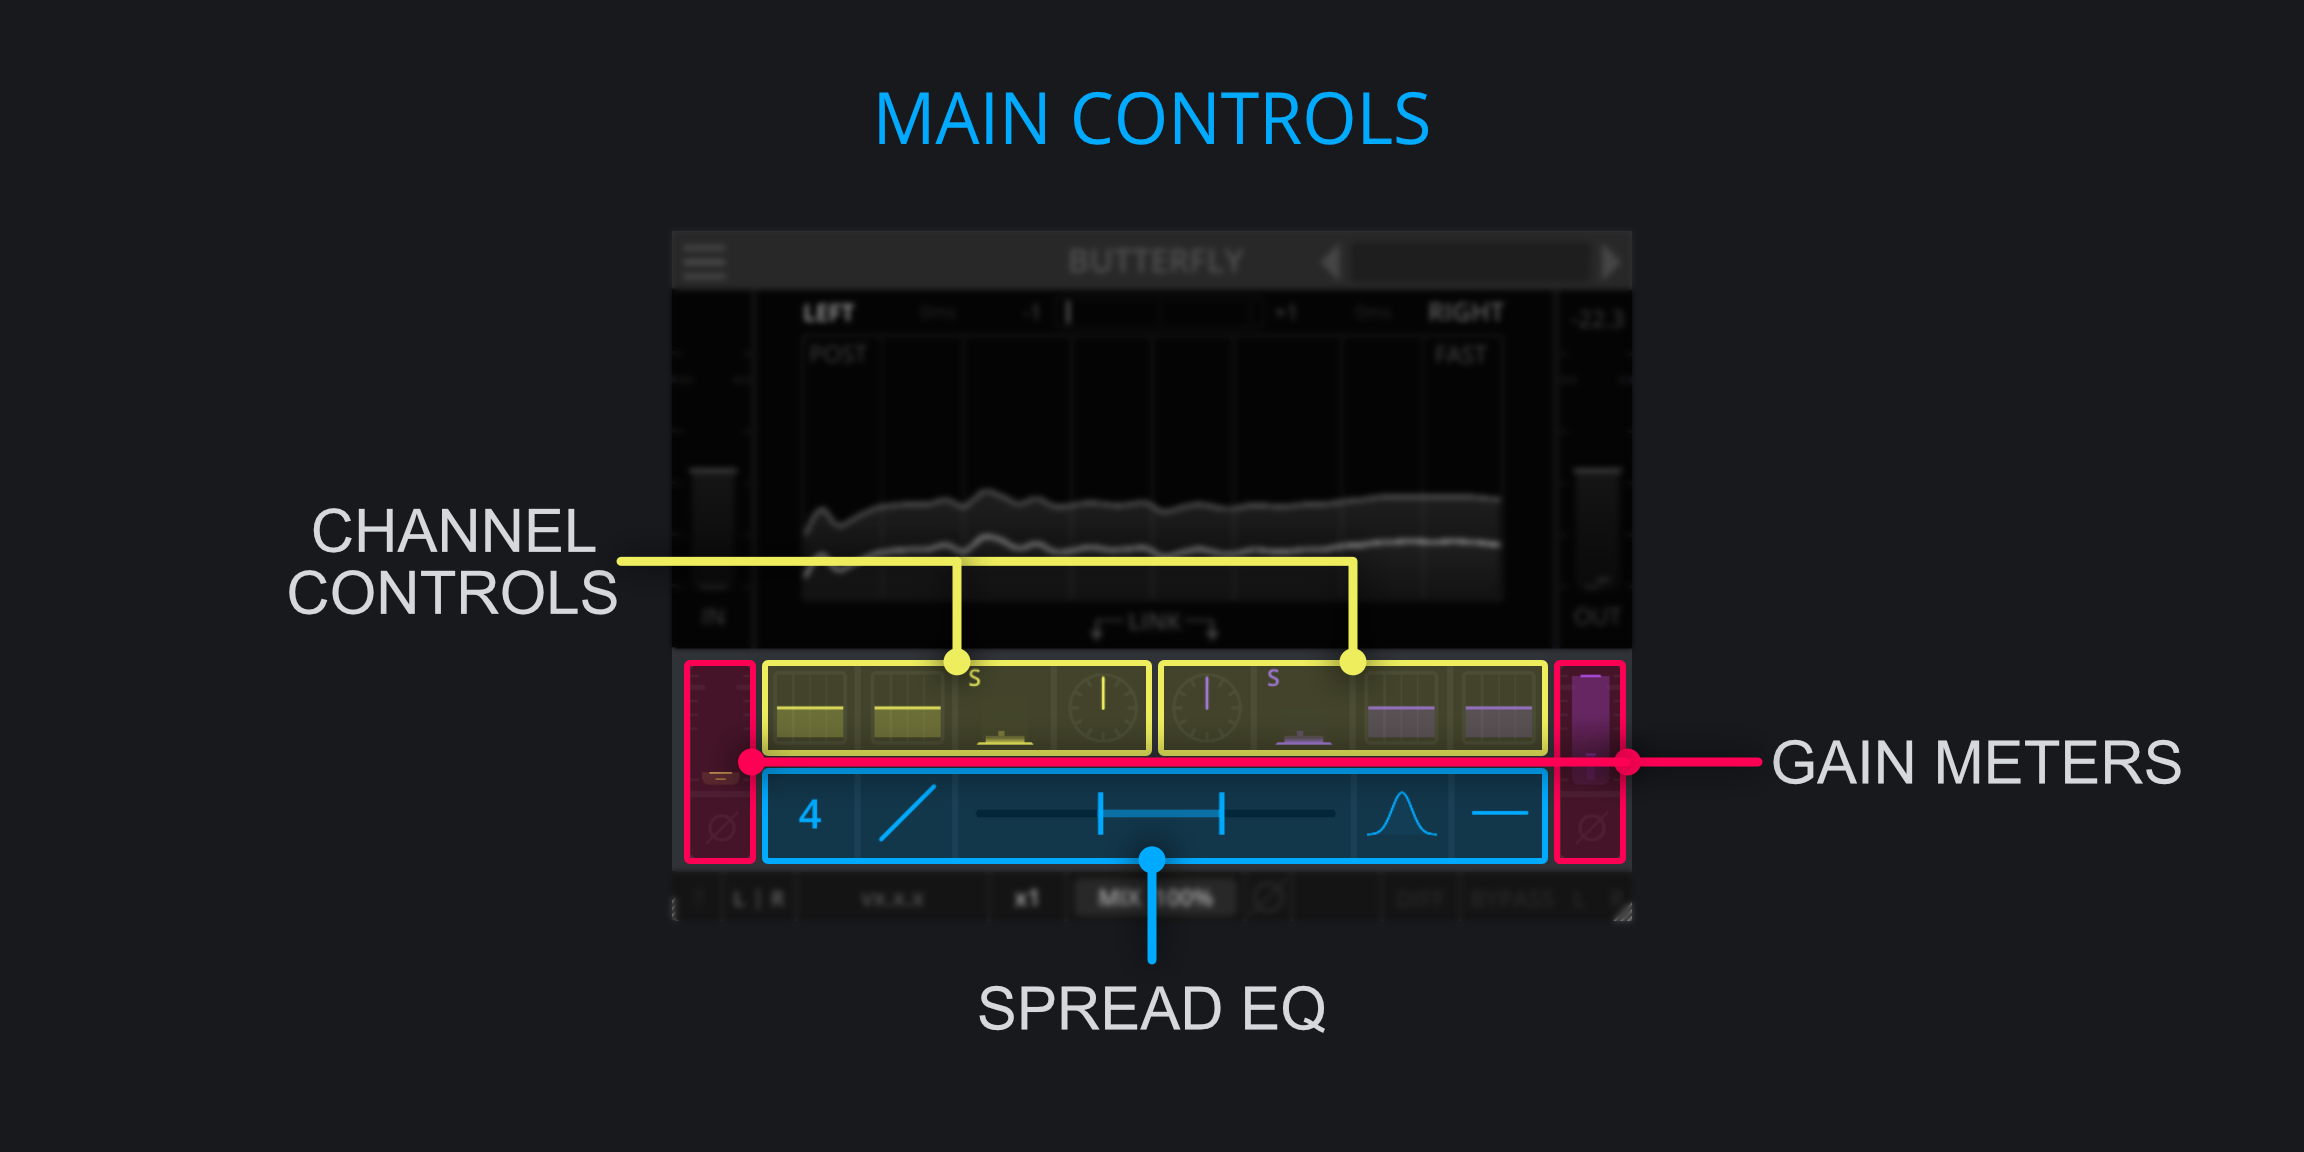
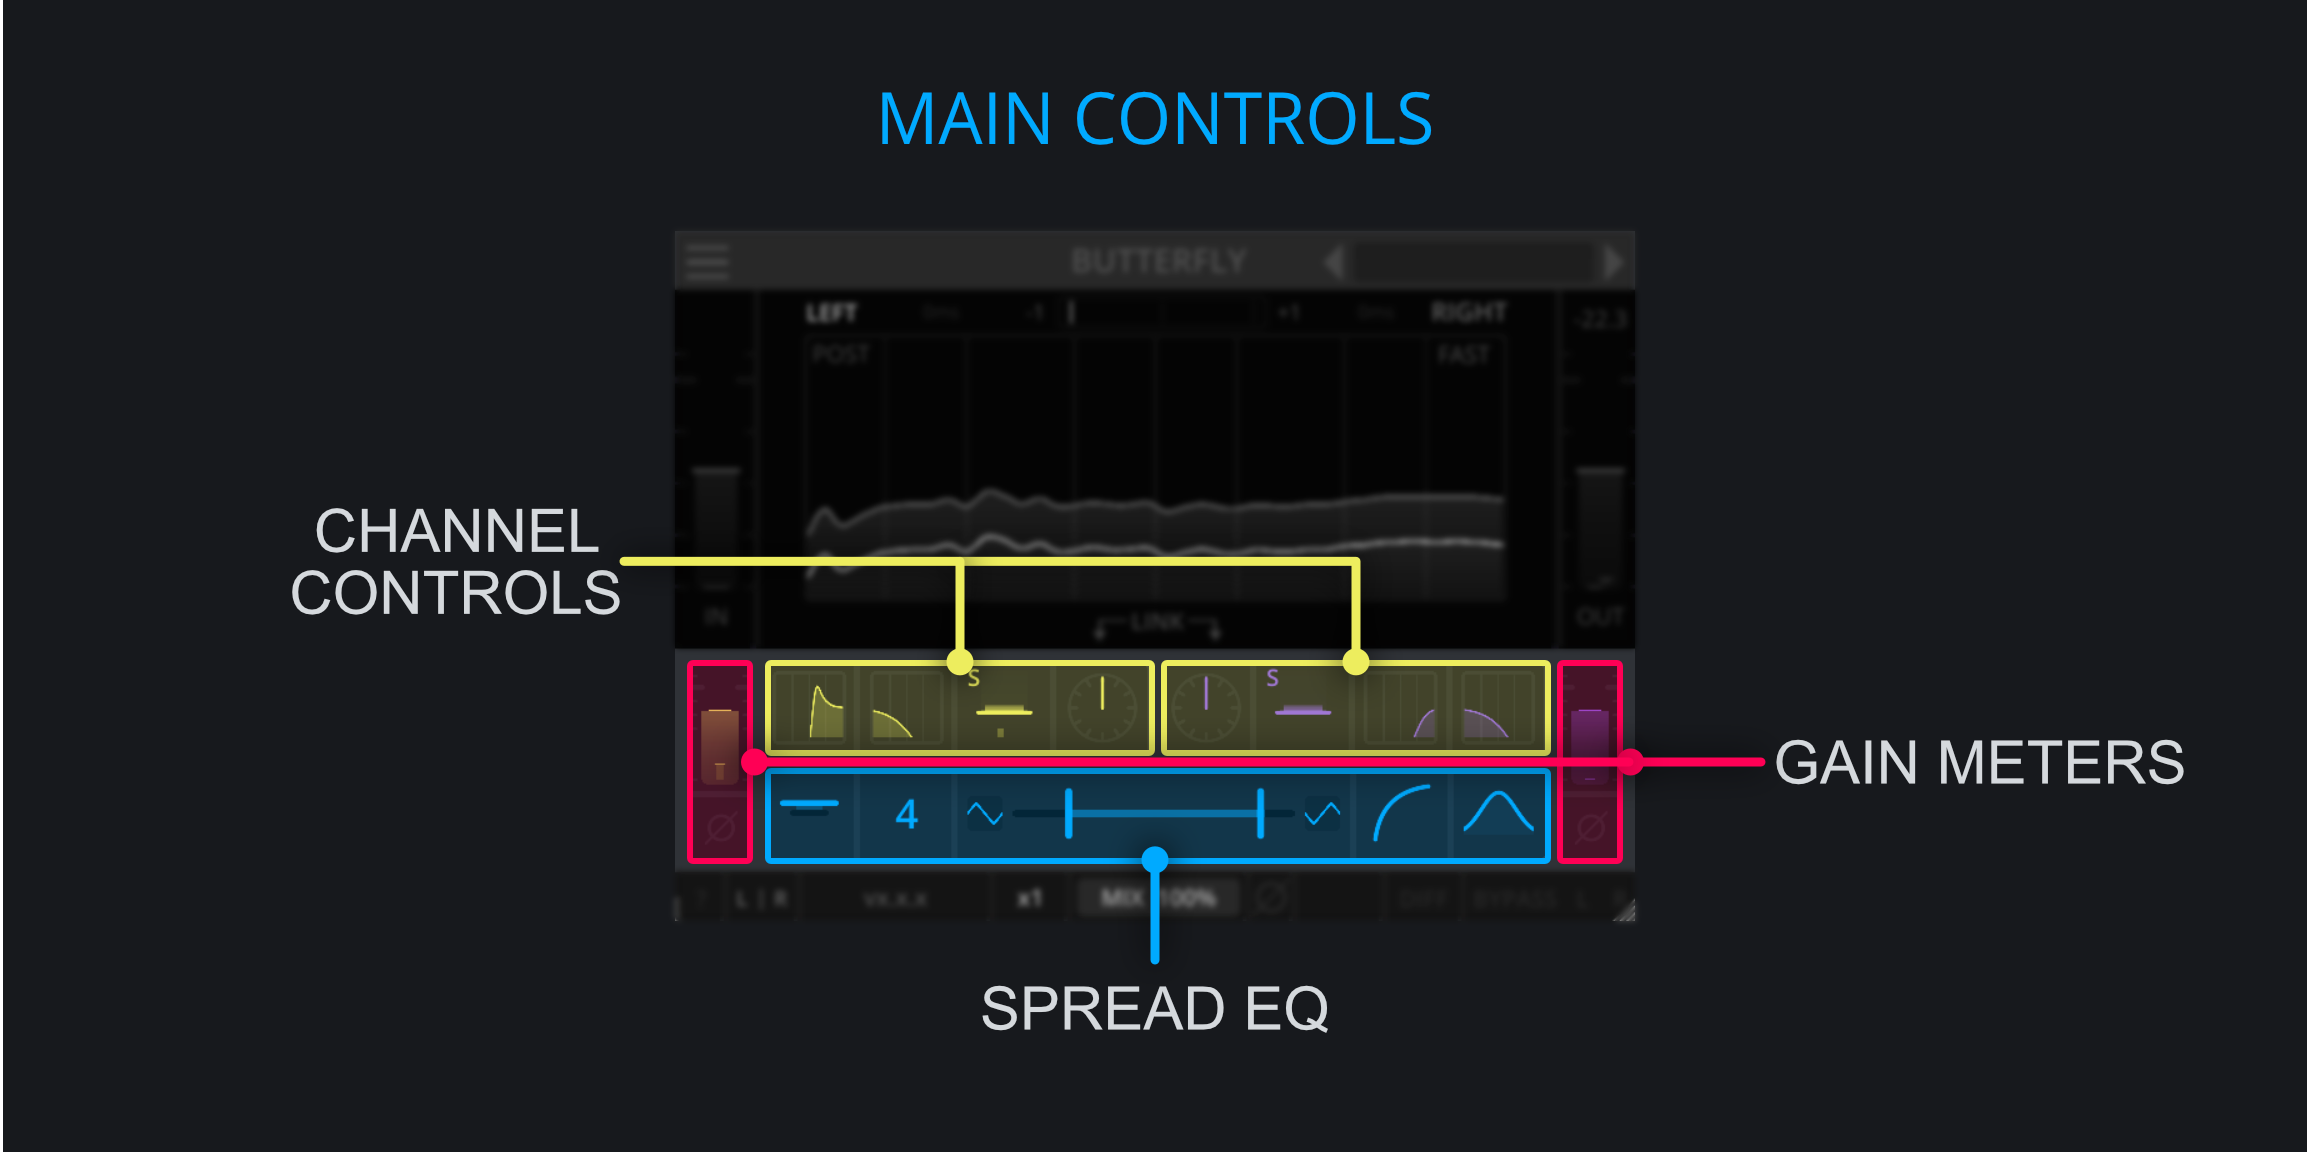
Updated Butterfly manual

diff --git a/butterfly/03_63_controls_spreadeq.md b/butterfly/03_63_controls_spreadeq.md
@@ -18,28 +18,24 @@ As an example (4 bells from 100Hz to 200Hz, 3dB Gain):
 The volume and phase differences introduced by the spread EQ on the two channels cause a wider stereo image while keeping reasonable good mono compatibility.
 <br/>
 
-#### Filter Count
+#### Gain
+<span class="location">*(Located right of the Spread EQ Widget)*</span>\
+Click and drag to adjust the gain of the bell peaks.
+<span class="spacer"/>
+
+#### Order Count
 <span class="location">*(Located left of the Spread EQ Widget)*</span>\
 <div class="block controls bg-dark-2">
 - <span class="item">Left-Click and Drag Up/Down:</span> Adjust Filter Count.
 </div>
-The Filter count determines how many "dual" bell-curves are applied within the frequency range.
+The Order count determines how many "dual" bell-curves are applied within the frequency range.
 For each instance, 2 bell-curve filters will be created with opposite gain values where one is placed on the left channel and the other is placed right channel.
 
 A value of 0 will disable the Spread-EQ.
 Any odd-values will result in the volume of one of the channels being louder than the other. 
 Even counts will keep the volume roughly equal.
-<div class="pb"></div>
-
-#### Peak Distribution Slider
-<span class="location">*(Located left-ish of the Spread EQ Widget)*</span>\
-<div class="block controls bg-dark-2">
-- <span class="item">Left-Click and Drag Left/Right:</span> Adjust filter distribution.
-</div>
-The filter distribution slider allows to place individual bands on a linear and logarithmic
-scale (or any mix thereof) within the frequency range.
-As the natural perception of frequencies happens logarithmically, setting the value to 100% logarithmic can result in boosting the harmomic series with a narrow Q value.
 <span class="spacer"/>
+<div class="pb"></div>
 
 #### Frequency Range Slider
 <span class="location">*(Located central of the Spread EQ Widget)*</span>\
@@ -50,19 +46,38 @@ The Frequency Range slider is a widget separated into 3 components that can each
 change the value:
 <div class="block bg-dark-1">
 - <span class="txt-purple">Left Handle:</span>: Adjust the lower-range for the filter placement.
-- <span class="txt-purple">Middle Rail:</span>: Move the whole range left/right for the filter placement..
+- <span class="txt-purple">Middle Rail:</span>: Move the whole range left/right for the filter placement.
 - <span class="txt-purple">Right Handle:</span>: Adjust the upper-range for the filter placement.
 </div>
+<span class="spacer"/>
+
+#### Filter Stacking
+<span class="location">*(Located central of the Spread EQ Widget)*</span>\
+<div class="block controls bg-dark-2">
+- <span class="item">Left-Click:</span> Switch stacking pattern.
+</div>
+The Filter Stacking button changes how the SpreadEQ positions the filters. By default it follows
+and up/down order but can be changed for both the LEFT and RIGHT channel respectively between:
+<div class="block bg-dark-1">
+- <span class="txt-purple">UP/DOWN:</span>: Makes every odd filter go UP and even go DOWN.
+- <span class="txt-purple">UP/UP:</span>: Makes every filter go UP.
+- <span class="txt-purple">DOWN/UP:</span>: Makes every odd filter go UP and even go DOWN.
+- <span class="txt-purple">DOWN/DOWN:</span>: Makes every filter go DOWN.
+</div>
+<span class="spacer"/>
+
+#### Distribution Slider
+<span class="location">*(Located left-ish of the Spread EQ Widget)*</span>\
+<div class="block controls bg-dark-2">
+- <span class="item">Left-Click and Drag Left/Right:</span> Adjust filter distribution.
+</div>
+The filter distribution slider allows to place individual bands on a linear and logarithmic
+scale (or any mix thereof) within the frequency range.
+As the natural perception of frequencies happens logarithmically, setting the value to 100% logarithmic can result in boosting the harmomic series with a narrow Q value.
 <span class="spacer"/>
 
 #### Q-Slider
 <span class="location">*(Located right-ish of the Spread EQ Widget)*</span>\
 Click and drag to adjust the Q value of the bell peaks.
 Large values apply broad preaks, while small values allow for sharp, resonant peaks.
-
-<span class="spacer"/>
-
-#### Gain
-<span class="location">*(Located right of the Spread EQ Widget)*</span>\
-Click and drag to adjust the gain of the bell peaks.
 <div class="pb"></div>

diff --git a/butterfly/03_62_controls_channel.md b/butterfly/03_62_controls_channel.md
@@ -10,6 +10,7 @@
 - <span class="item">Right-Click:</span> Cycle through different EQ types.<br/>
 <br/>
 - <span class="item">Left-Click and Drag Up/Down:</span> Change volume (when in **Shelf Mode**).
+- <span class="item">Left-Click and Drag Up/Down:</span> Change Q-Factor (With 12dB or 24dB filters).
 </div>
 
 Both the Low- and High- EQs have 4 different states through which they can be cycled:

diff --git a/butterfly/03_50_controls_display.md b/butterfly/03_50_controls_display.md
@@ -25,6 +25,7 @@ The analyzer has 3 different display modes:
 - <span class="txt-purple">Post</span>: Displays the outgoing signal.
 </div>
 <span class="spacer"/>
+<div class="pb"></div>
 
 ### Analyzer Timing
 <span class="location">*(Located at the top right of the plugin)*</span>\
